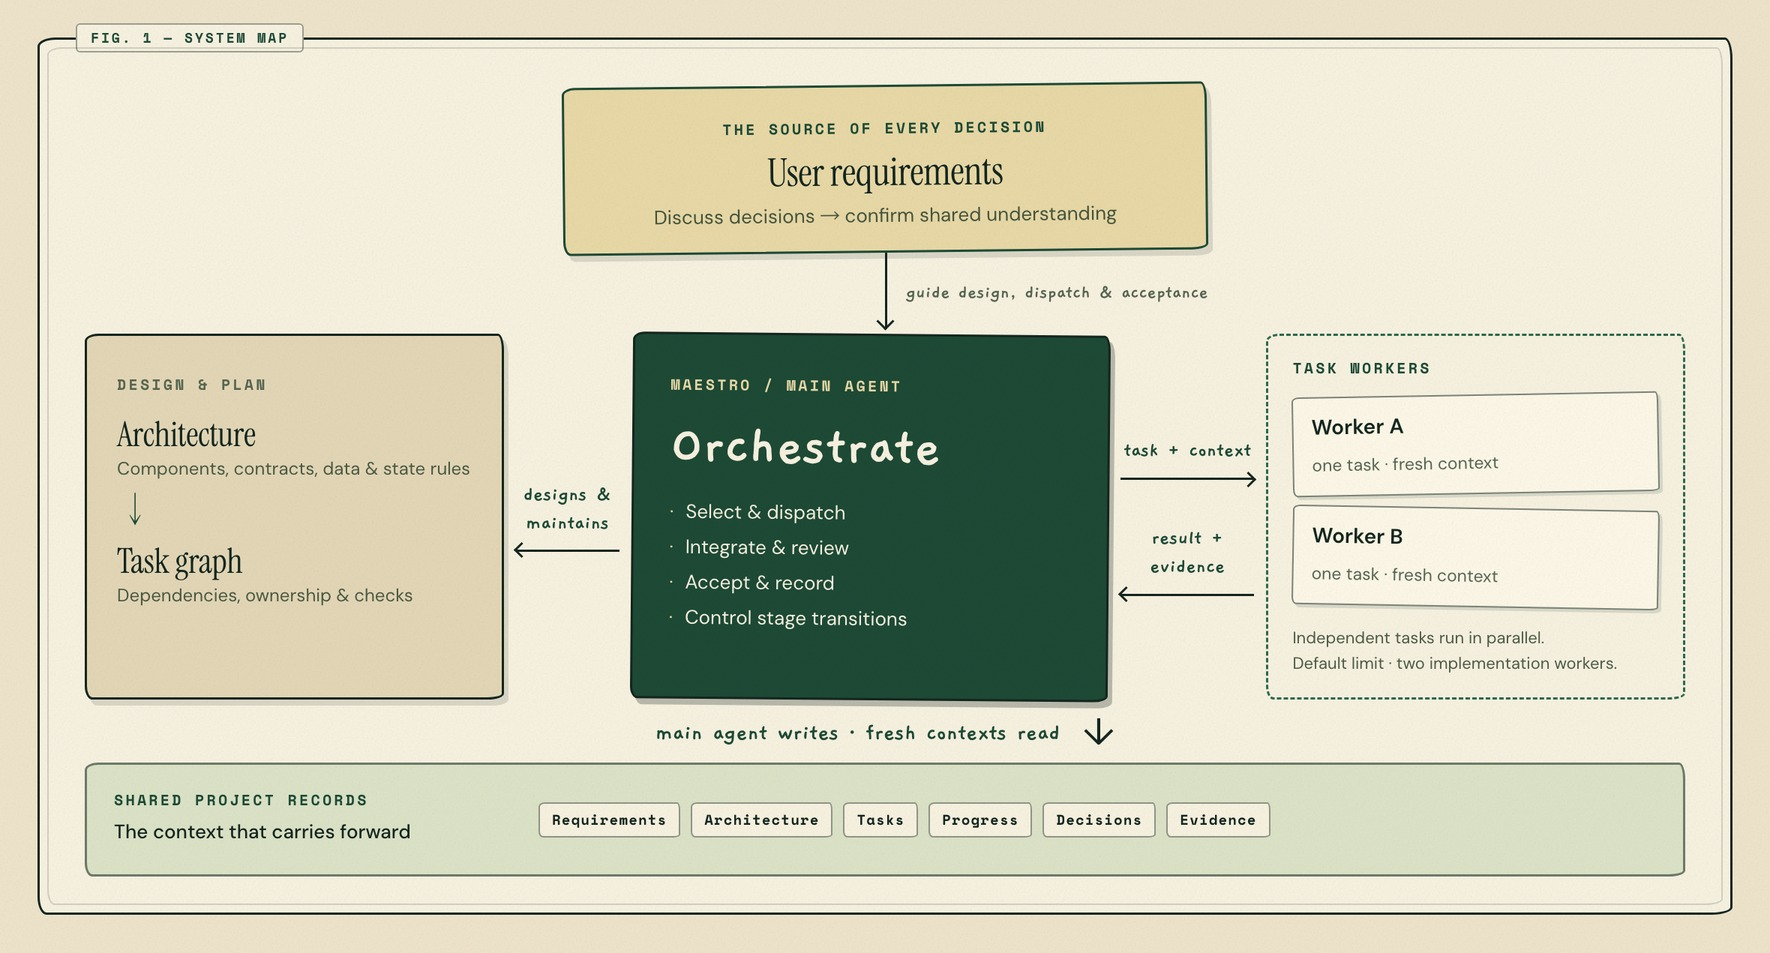
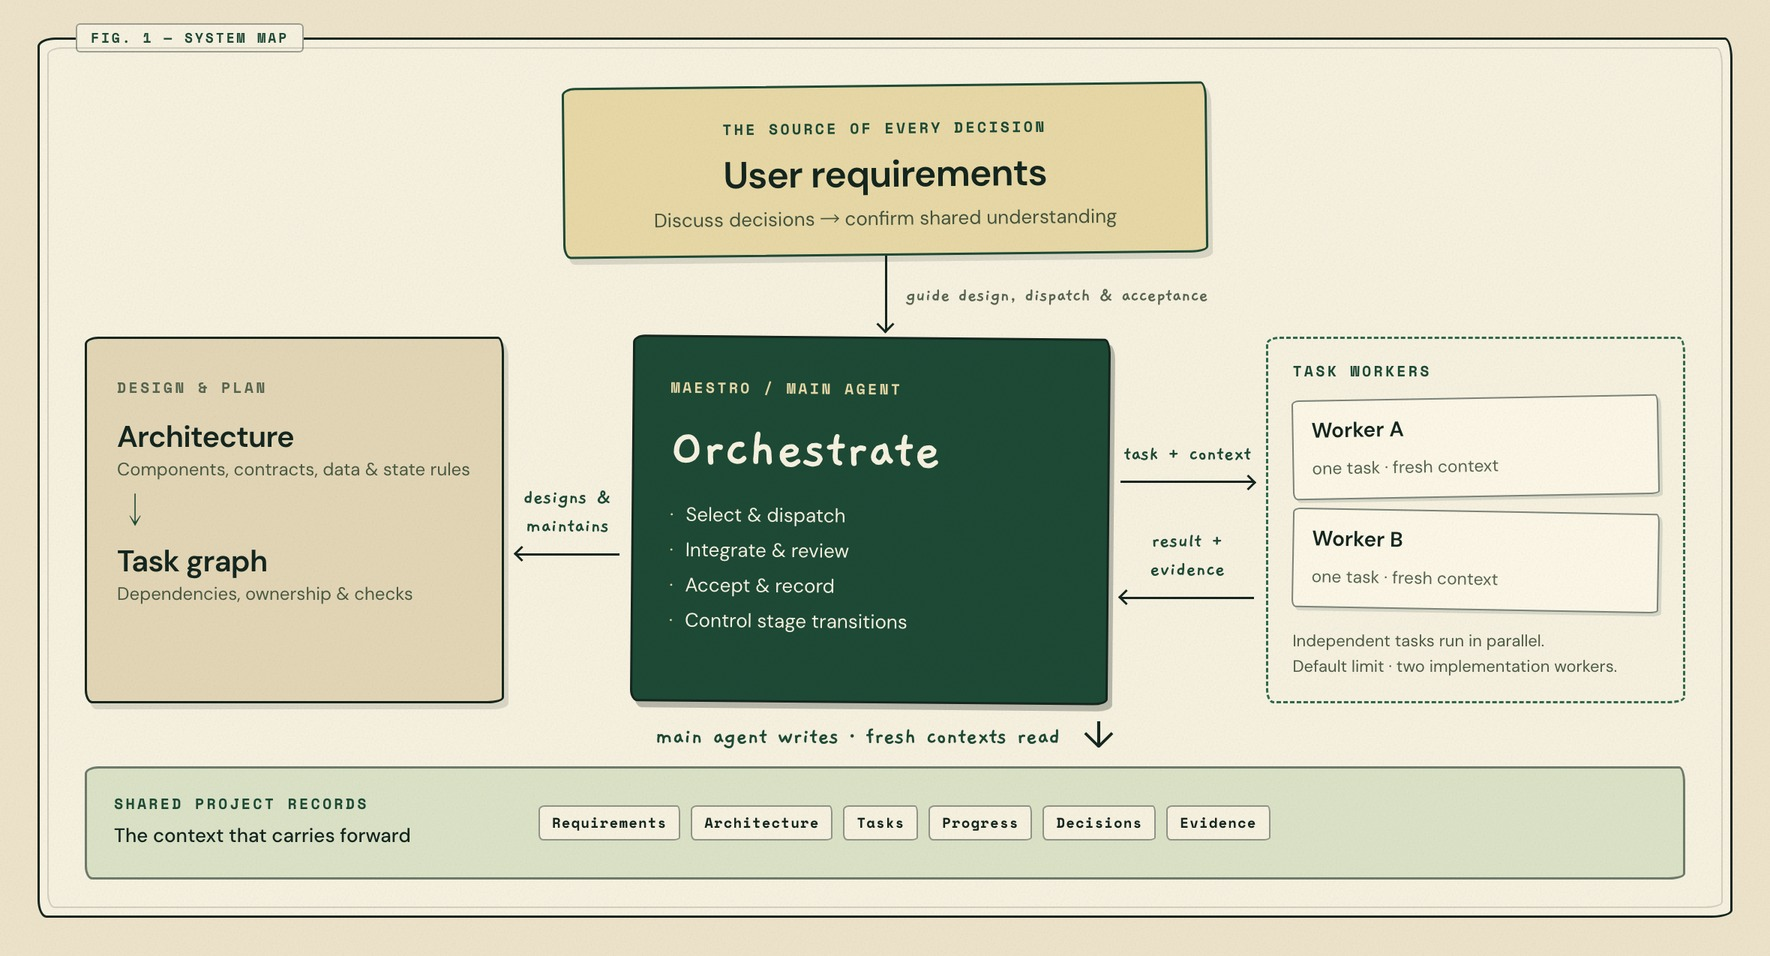
style: drop the serif headings for hand lettering and sans labels
Use the hand-drawn face for the hero and section titles, and the page's
sans for diagram and card headings, then regenerate the README diagrams.

diff --git a/docs/style.css b/docs/style.css
@@ -1,7 +1,7 @@
 /* ==========================================================================
    Maestro — retro field-guide design language
    Deep-green ink on aged cream paper. Hand-drawn frames, letterpress shadows,
-   serif display type, mono captions, and scribbled rules.
+   hand-drawn headings, mono captions, and scribbled rules.
    ========================================================================== */
 
 :root {
@@ -26,7 +26,7 @@
   --mono: 'Space Mono', ui-monospace, 'PingFang SC', monospace;
   --hand: 'Gaegu', 'Kaiti SC', 'STKaiti', 'KaiTi', cursive;
   --sans: 'DM Sans', 'PingFang SC', 'Hiragino Sans GB', 'Microsoft YaHei', 'Noto Sans SC', sans-serif;
-  --display: 'Instrument Serif', 'Songti SC', 'Noto Serif SC', 'Source Han Serif SC', serif;
+  --display: 'Gaegu', 'Kaiti SC', 'STKaiti', 'KaiTi', cursive;
 
   /* Hand-drawn geometry */
   --sketch: 14px 5px 16px 6px / 6px 16px 5px 14px;
@@ -179,12 +179,12 @@ nav a:hover { border-bottom-color: var(--green-700); color: var(--green-700); }
   color: var(--green-500);
 }
 h1 {
-  font: 400 clamp(46px, 5vw, 68px)/.98 var(--display);
-  letter-spacing: -.015em;
+  font: 700 clamp(44px, 4.9vw, 66px)/1.02 var(--display);
+  letter-spacing: 0;
 }
 h1 span {
   color: var(--green-700);
-  font-style: italic;
+  font-style: normal;
   padding-bottom: 8px;
   background: var(--wave) left bottom repeat-x;
   background-size: 90px 7px;
@@ -242,8 +242,8 @@ h1 span {
   margin-bottom: 16px;
 }
 .diagram-heading h2 {
-  font: 400 25px/1.1 var(--display);
-  letter-spacing: -.01em;
+  font: 600 23px/1.25 var(--sans);
+  letter-spacing: -.02em;
 }
 .diagram-heading .hand { transform: rotate(-2deg); }
 
@@ -298,9 +298,9 @@ h1 span {
 }
 .map-source .node-label { color: var(--green-700); }
 .map-source h3 {
-  font: 400 26px/1.15 var(--display);
-  letter-spacing: -.01em;
-  margin: 3px 0;
+  font: 600 25px/1.2 var(--sans);
+  letter-spacing: -.02em;
+  margin: 4px 0;
 }
 .map-source p { font-size: 13px; color: #46553f; }
 
@@ -346,8 +346,8 @@ h1 span {
 .design-stack { padding: 18px 20px; background: var(--paper-lo); }
 .design-stack .node-label { color: var(--muted); }
 .design-stack h3 {
-  font: 400 23px/1.2 var(--display);
-  letter-spacing: -.01em;
+  font: 600 20px/1.3 var(--sans);
+  letter-spacing: -.02em;
   margin-top: 8px;
 }
 .design-stack p { font-size: 12px; color: #4b5a44; line-height: 1.5; }
@@ -472,7 +472,7 @@ h1 span {
   gap: 20px;
   margin: 36px 0 14px;
 }
-.routing-header h3 { font: 400 21px/1.2 var(--display); }
+.routing-header h3 { font: 600 19px/1.35 var(--sans); letter-spacing: -.015em; }
 .routing-header p { font-size: 12px; color: var(--muted); }
 .routing-grid {
   display: grid;
@@ -513,8 +513,8 @@ h1 span {
   margin-bottom: 34px;
 }
 .section-heading h2 {
-  font: 400 38px/1.08 var(--display);
-  letter-spacing: -.015em;
+  font: 700 40px/1.12 var(--display);
+  letter-spacing: 0;
   color: var(--ink);
 }
 .section-heading h2::after {
@@ -773,8 +773,8 @@ h1 span {
 .start-section .eyebrow { color: var(--highlight); }
 .start-section .eyebrow::before { color: var(--highlight); }
 .start-section h2 {
-  font: 400 44px/1.08 var(--display);
-  letter-spacing: -.015em;
+  font: 700 44px/1.1 var(--display);
+  letter-spacing: 0;
   color: var(--paper-hi);
 }
 .start-section p:not(.eyebrow) {

diff --git a/docs/index.zh-CN.html b/docs/index.zh-CN.html
@@ -10,14 +10,14 @@
   <link rel="alternate" hreflang="zh-CN" href="index.zh-CN.html">
   <link rel="preconnect" href="https://fonts.googleapis.com">
   <link rel="preconnect" href="https://fonts.gstatic.com" crossorigin>
-  <link href="https://fonts.googleapis.com/css2?family=DM+Sans:wght@400;500;600;700&family=Gaegu:wght@400;700&family=Instrument+Serif:ital@0;1&family=Space+Mono:wght@400;700&display=swap" rel="stylesheet">
+  <link href="https://fonts.googleapis.com/css2?family=DM+Sans:wght@400;500;600;700&family=Gaegu:wght@400;700&family=Space+Mono:wght@400;700&display=swap" rel="stylesheet">
   <link rel="stylesheet" href="style.css">
   <style>
     :root {
       --sans: 'DM Sans', 'PingFang SC', 'Hiragino Sans GB', 'Microsoft YaHei', 'Noto Sans SC', sans-serif;
       --hand: 'Gaegu', 'Kaiti SC', 'STKaiti', 'KaiTi', cursive;
       --mono: 'Space Mono', 'PingFang SC', 'Hiragino Sans GB', monospace;
-      --display: 'Instrument Serif', 'Songti SC', 'STSong', 'Noto Serif SC', serif;
+      --display: 'Gaegu', 'Kaiti SC', 'STKaiti', 'KaiTi', cursive;
     }
     body { line-height: 1.68; }
     h1 { letter-spacing: -.01em; }

diff --git a/docs/index.html b/docs/index.html
@@ -10,7 +10,7 @@
   <link rel="alternate" hreflang="zh-CN" href="index.zh-CN.html">
   <link rel="preconnect" href="https://fonts.googleapis.com">
   <link rel="preconnect" href="https://fonts.gstatic.com" crossorigin>
-  <link href="https://fonts.googleapis.com/css2?family=DM+Sans:wght@400;500;600;700&family=Gaegu:wght@400;700&family=Instrument+Serif:ital@0;1&family=Space+Mono:wght@400;700&display=swap" rel="stylesheet">
+  <link href="https://fonts.googleapis.com/css2?family=DM+Sans:wght@400;500;600;700&family=Gaegu:wght@400;700&family=Space+Mono:wght@400;700&display=swap" rel="stylesheet">
   <link rel="stylesheet" href="style.css">
 </head>
 <body>
